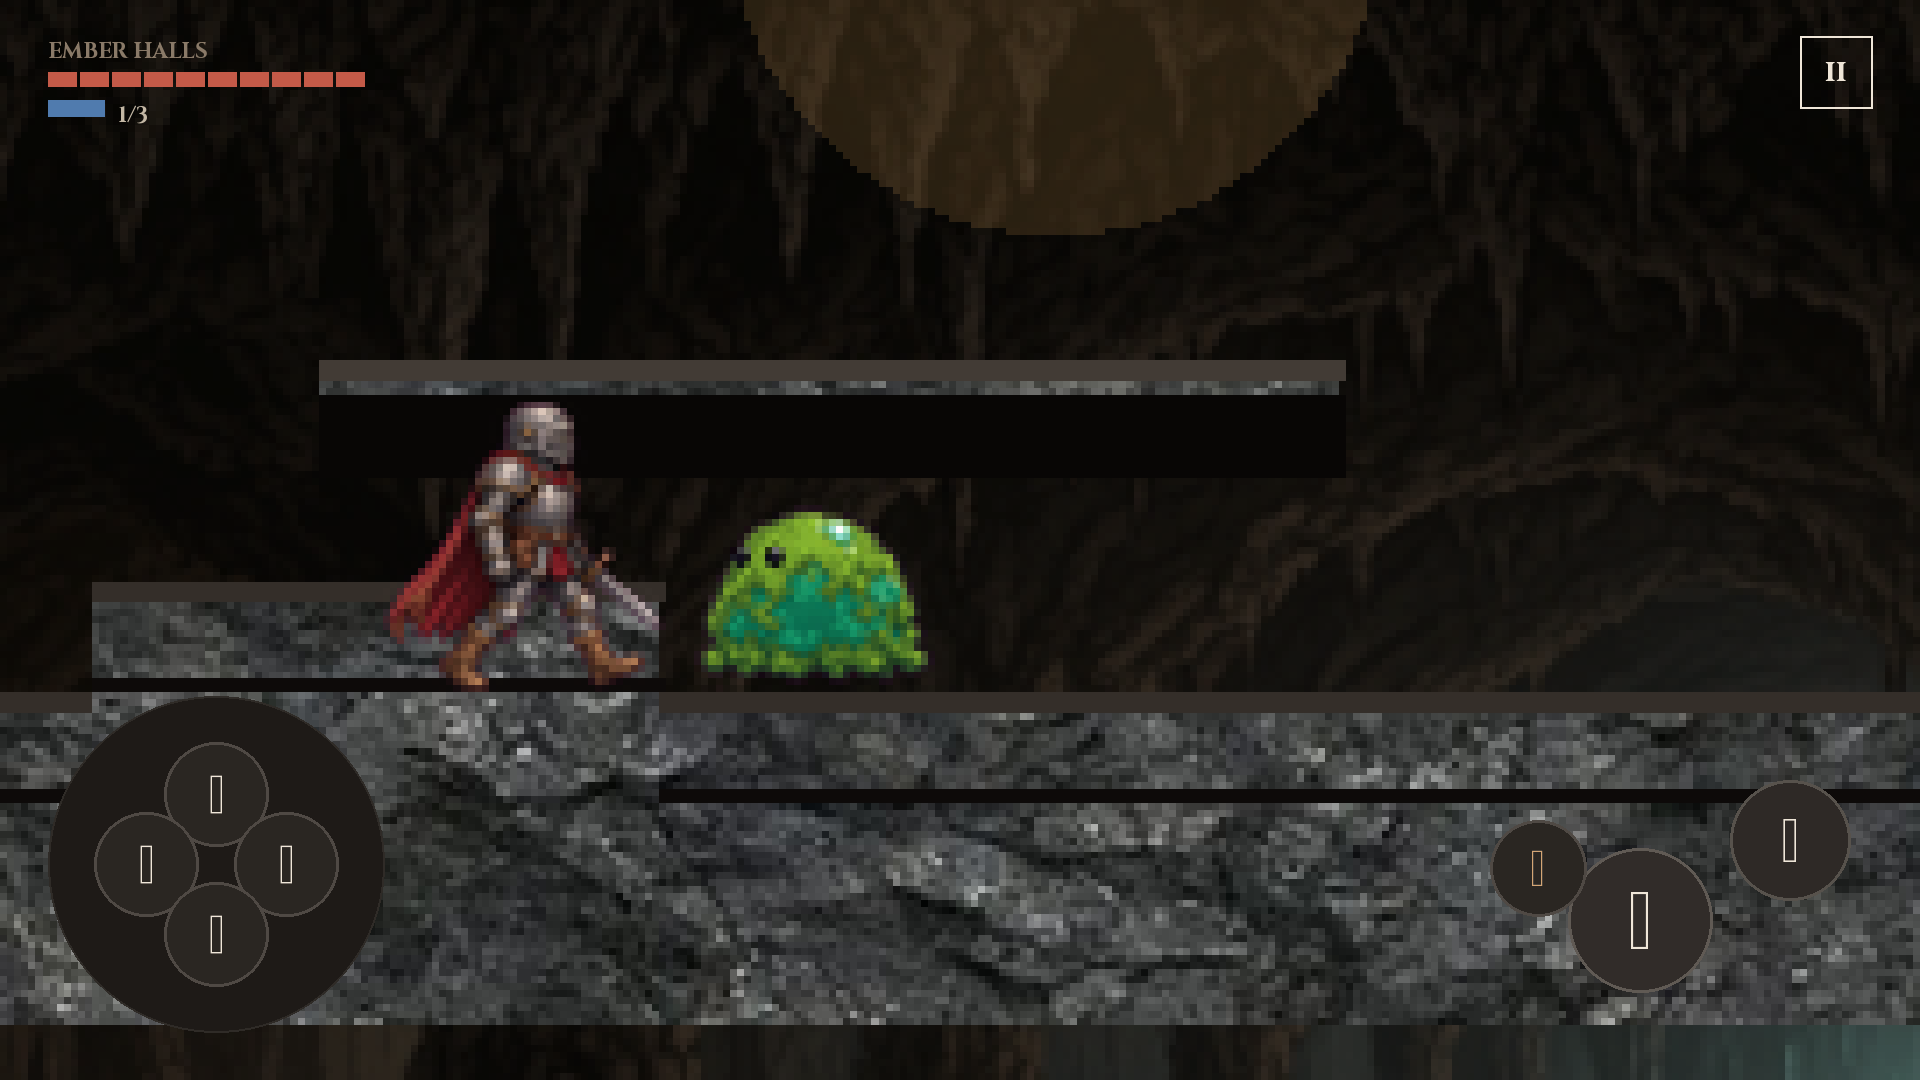
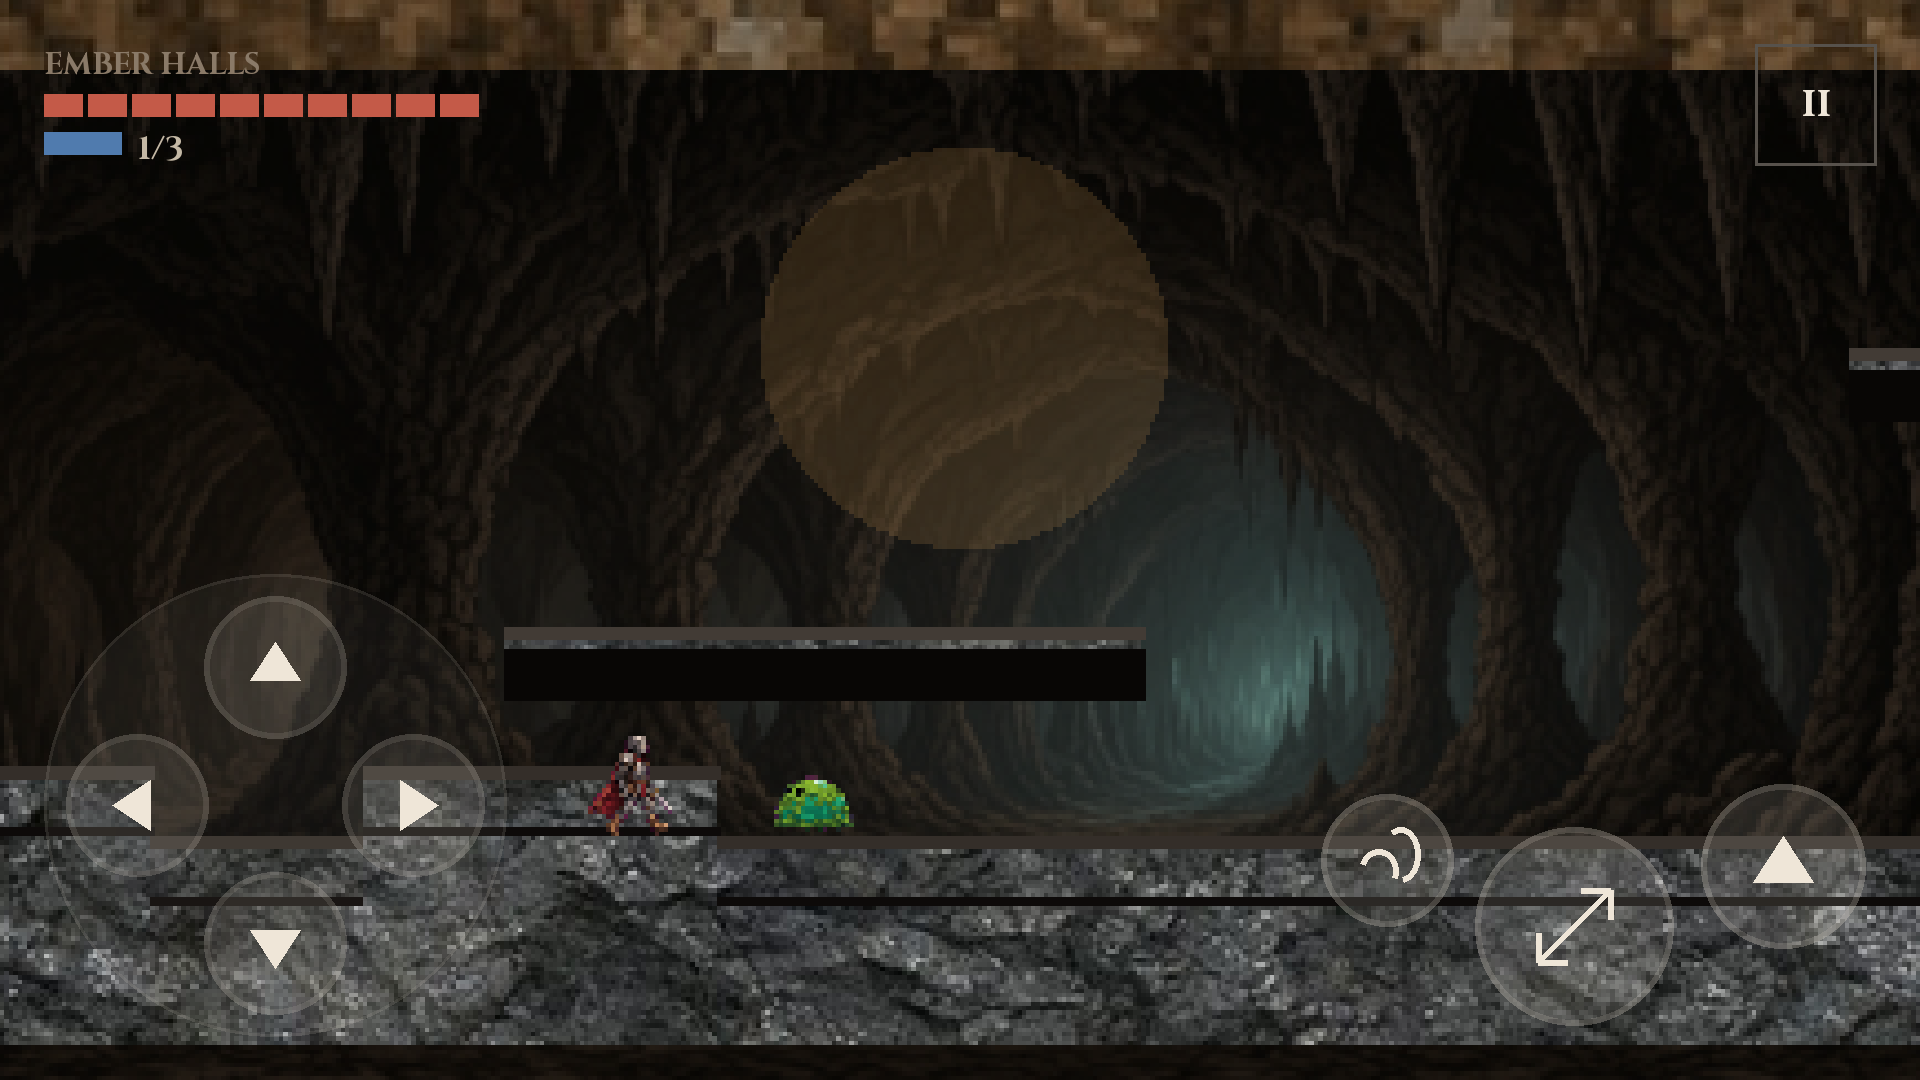
Reshoot Play screenshots at in-game camera with real D-pad arrows

diff --git a/store/make_screenshots.py b/store/make_screenshots.py
@@ -17,9 +17,14 @@ RES = os.path.join(ROOT, "app", "src", "main", "res")
 W, H = 1920, 1080  # 16:9 phone, landscape — how the game actually runs
 TILE = 16
 T_EMPTY, T_SOLID, T_ONEWAY = 0, 1, 2
-VIEW_H = 148.0
+VIEW_H = 240.0
 SCALE = H / VIEW_H
 VIEW_W = W / SCALE
+DENSITY = 2.75  # ~xxhdpi on a 1080p phone in landscape
+
+
+def dp(n: float) -> int:
+    return int(round(n * DENSITY))
 
 FG = (239, 230, 216, 255)
 MUTED = (196, 184, 165, 255)
@@ -56,11 +61,6 @@ def sheet_cell(img: Image.Image, frame: int) -> Image.Image:
     cw, ch = img.width // cols, img.height // rows
     cc, rr = i % cols, i // cols
     cell = img.crop((cc * cw, rr * ch, cc * cw + cw, rr * ch + ch))
-    bbox = cell.getbbox()
-    if bbox:
-        pad = 6
-        x0, y0, x1, y1 = bbox
-        cell = cell.crop((max(0, x0 - pad), max(0, y0 - pad), min(cell.width, x1 + pad), min(cell.height, y1 + pad)))
     return cell
 
 
@@ -68,8 +68,8 @@ def blit_sheet(world: Image.Image, img: Image.Image, frame: int, x: float, y: fl
     cell = sheet_cell(img, frame)
     if flip:
         cell = cell.transpose(Image.Transpose.FLIP_LEFT_RIGHT)
-    piece = cell.resize((max(1, int(dw)), max(1, int(dh))), Image.Resampling.LANCZOS)
-    px, py = int(x), int(y)
+    piece = cell.resize((max(1, int(dw)), max(1, int(dh))), Image.Resampling.NEAREST)
+    px, py = int(round(x)), int(round(y))
     if px < 0 or py < 0:
         return
     world.alpha_composite(piece, (px, py))
@@ -290,7 +290,7 @@ def render_world(a: A, lv: Level, px: float, py: float, extras: dict) -> Image.I
     for kind, c, floor in lv.pickups:
         ix, iy = c * TILE + 4, floor * TILE - 12
         if kind == "coin":
-            blit_sheet(world, a.coin, 1, wx(ix - 4), wy(iy - 4), 18, 18, False)
+            blit_sheet(world, a.coin, 1, wx(ix - 2), wy(iy - 2), 14, 14, False)
         else:
             img = a.heal if kind == "heal" else a.mana
             piece = img.resize((14, 16), Image.Resampling.NEAREST)
@@ -302,14 +302,14 @@ def render_world(a: A, lv: Level, px: float, py: float, extras: dict) -> Image.I
     for kind, c, floor in lv.enemies:
         if kind == "slime":
             ex, ey = c * TILE, floor * TILE - 10
-            blit_sheet(world, a.slime, extras.get("slime_frame", 1), wx(ex + 6 - 18), wy(ey + 10 - 28), 36, 28, True)
+            blit_sheet(world, a.slime, extras.get("slime_frame", 1), wx(ex + 6 - 11), wy(ey + 10 - 18), 22, 18, True)
         elif kind == "bat":
             ex, ey = c * TILE, floor * TILE
-            blit_sheet(world, a.bat, 2, wx(ex + 6 - 18), wy(ey + 5 - 16), 36, 28, True)
+            blit_sheet(world, a.bat, 2, wx(ex + 6 - 11), wy(ey + 5 - 9), 22, 18, True)
         elif kind == "dragon":
             ex, ey = c * TILE - 20, floor * TILE - 88
             bmp = a.dragon_attack if extras.get("dragon_attack") else a.dragon_idle
-            blit_sheet(world, bmp, extras.get("dragon_frame", 1), wx(ex + 35 - 80), wy(ey + 88 - 128), 160, 128, True)
+            blit_sheet(world, bmp, extras.get("dragon_frame", 1), wx(ex + 35 - 87.5), wy(ey + 88 - 140), 175, 140, True)
             if extras.get("dragon_hp") is not None:
                 bar, hp, maxhp = 45, extras["dragon_hp"], 10
                 hx, hy = wx(ex + 35 - bar / 2), wy(ey + 88 - 140 - 6)
@@ -319,12 +319,12 @@ def render_world(a: A, lv: Level, px: float, py: float, extras: dict) -> Image.I
     anim = extras.get("player_anim", "idle")
     fr = extras.get("player_frame", 1)
     bmp = {"idle": a.knight_idle, "run": a.knight_run, "jump": a.knight_jump, "attack": a.knight_attack}[anim]
-    blit_sheet(world, bmp, fr, wx(px + 5 - 22), wy(py + 14 - 44), 44, 46, extras.get("flip", False))
+    blit_sheet(world, bmp, fr, wx(px + 5 - 14), wy(py + 14 - 26), 28, 28, extras.get("flip", False))
     if extras.get("slash"):
-        blit_sheet(world, a.slash, 2, wx(px + 12), wy(py - 8), 36, 30, False)
+        blit_sheet(world, a.slash, 2, wx(px + 10 - 2), wy(py), 22, 18, False)
     if extras.get("fireball"):
         bx, by = extras["fireball"]
-        blit_sheet(world, a.fireball, 1, wx(bx), wy(by), 32, 28, False)
+        blit_sheet(world, a.fireball, 1, wx(bx), wy(by), 18, 16, False)
     if extras.get("floater"):
         d = ImageDraw.Draw(world)
         d.text((wx(extras["floater"][0]), wy(extras["floater"][1])), extras["floater"][2], font=font(10, True), fill=CARVED_GOLD)
@@ -343,42 +343,81 @@ def render_world(a: A, lv: Level, px: float, py: float, extras: dict) -> Image.I
     return screen
 
 
-def oval(draw, box, fill, outline, width=3):
-    draw.ellipse(box, fill=fill, outline=outline, width=width)
+def circle(img: Image.Image, cx: int, cy: int, r: int, fill, outline, stroke: int) -> None:
+    overlay = Image.new("RGBA", img.size, (0, 0, 0, 0))
+    d = ImageDraw.Draw(overlay)
+    d.ellipse([cx - r, cy - r, cx + r, cy + r], fill=fill, outline=outline, width=stroke)
+    img.alpha_composite(overlay)
+
+
+def tri(d, kind: str, cx: int, cy: int, s: int) -> None:
+    c = (239, 230, 216, 255)
+    if kind == "left":
+        d.polygon([(cx - s, cy), (cx + int(s * 0.55), cy - s), (cx + int(s * 0.55), cy + s)], fill=c)
+    elif kind == "right":
+        d.polygon([(cx + s, cy), (cx - int(s * 0.55), cy - s), (cx - int(s * 0.55), cy + s)], fill=c)
+    elif kind == "up":
+        d.polygon([(cx, cy - s), (cx + s, cy + int(s * 0.55)), (cx - s, cy + int(s * 0.55))], fill=c)
+    else:
+        d.polygon([(cx, cy + s), (cx - s, cy - int(s * 0.55)), (cx + s, cy - int(s * 0.55))], fill=c)
 
 
 def draw_controls(img: Image.Image) -> None:
+    """Real overlay from activity_main.xml: triangle arrows, sword, flame."""
+    m = dp(16)
+    pad = dp(168)
+    btn = dp(52)
+    plate_x, plate_y = m, H - m - pad
+    circle(img, plate_x + pad // 2, plate_y + pad // 2, pad // 2, (239, 230, 216, 13), (239, 230, 216, 34), max(2, dp(1)))
+    cx, cy = plate_x + pad // 2, plate_y + pad // 2
+    inset = dp(8) + btn // 2
+    positions = {
+        "up": (cx, plate_y + inset),
+        "left": (plate_x + inset, cy),
+        "right": (plate_x + pad - inset, cy),
+        "down": (cx, plate_y + pad - inset),
+    }
     d = ImageDraw.Draw(img)
-    # left pad
-    oval(d, [48, H - 48 - 336, 48 + 336, H - 48], (239, 230, 216, 14), (239, 230, 216, 34), 2)
-    cx, cy, r = 48 + 168, H - 48 - 168, 52
-    for dx, dy in ((0, -70), (-70, 0), (70, 0), (0, 70)):
-        oval(d, [cx + dx - r, cy + dy - r, cx + dx + r, cy + dy + r], (239, 230, 216, 28), (239, 230, 216, 70), 3)
-    f = font(28, True)
-    for ch, dx, dy in (("▲", 0, -70), ("◀", -70, 0), ("▶", 70, 0), ("▼", 0, 70)):
-        d.text((cx + dx, cy + dy), ch, font=f, fill=FG, anchor="mm")
-    # right actions
-    ax, ay = W - 280, H - 160
-    oval(d, [ax - 72, ay - 72, ax + 72, ay + 72], (239, 230, 216, 36), (239, 230, 216, 90), 3)
-    d.text((ax, ay), "⚔", font=font(42, True), fill=FG, anchor="mm")
-    oval(d, [ax + 90, ay - 140, ax + 90 + 120, ay - 20], (239, 230, 216, 32), (239, 230, 216, 80), 3)
-    d.text((ax + 150, ay - 80), "▲", font=font(32, True), fill=FG, anchor="mm")
-    oval(d, [ax - 150, ay - 100, ax - 54, ay - 4], (239, 230, 216, 28), (239, 230, 216, 70), 3)
-    d.text((ax - 102, ay - 52), "✦", font=font(26, True), fill=GOLD, anchor="mm")
+    for kind, (x, y) in positions.items():
+        circle(img, x, y, btn // 2, (239, 230, 216, 26), (239, 230, 216, 51), max(2, dp(2)))
+        tri(d, kind, x, y, dp(9))
+    me, mb = dp(20), dp(20)
+    jump_s, atk_s, spl_s = dp(60), dp(72), dp(48)
+    jump_cx = W - me - jump_s // 2
+    jump_cy = H - mb - dp(28) - jump_s // 2
+    atk_cx = jump_cx - dp(10) - jump_s // 2 - atk_s // 2
+    atk_cy = H - mb - atk_s // 2
+    spl_cx = atk_cx - dp(8) - atk_s // 2 - spl_s // 2
+    spl_cy = H - mb - dp(36) - spl_s // 2
+    circle(img, spl_cx, spl_cy, spl_s // 2, (239, 230, 216, 34), (239, 230, 216, 68), max(2, dp(2)))
+    w = max(3, dp(2))
+    d.arc([spl_cx - dp(10), spl_cy - dp(4), spl_cx + dp(4), spl_cy + dp(12)], start=200, end=20, fill=FG, width=w)
+    d.arc([spl_cx - dp(2), spl_cy - dp(12), spl_cx + dp(12), spl_cy + dp(8)], start=240, end=80, fill=FG, width=w)
+    circle(img, atk_cx, atk_cy, atk_s // 2, (239, 230, 216, 34), (239, 230, 216, 68), max(2, dp(2)))
+    s = dp(13)
+    d.line([(atk_cx - s, atk_cy + s), (atk_cx + s, atk_cy - s)], fill=FG, width=max(3, dp(2)))
+    d.line([(atk_cx + int(s * 0.2), atk_cy - s), (atk_cx + s, atk_cy - s), (atk_cx + s, atk_cy - int(s * 0.2))], fill=FG, width=max(3, dp(2)))
+    d.line([(atk_cx - s, atk_cy + int(s * 0.2)), (atk_cx - s, atk_cy + s), (atk_cx - int(s * 0.2), atk_cy + s)], fill=FG, width=max(3, dp(2)))
+    circle(img, jump_cx, jump_cy, jump_s // 2, (239, 230, 216, 34), (239, 230, 216, 68), max(2, dp(2)))
+    tri(d, "up", jump_cx, jump_cy, dp(11))
 
 
 def draw_hud(img: Image.Image, name: str, hp: int = 10, mana: bool = True, coins: str = "1/3") -> None:
     d = ImageDraw.Draw(img)
-    d.text((48, 36), name.upper(), font=font(22, True), fill=(138, 122, 104, 255))
-    x = 48
+    m = dp(16)
+    d.text((m, m), name.upper(), font=font(dp(11), True), fill=(138, 122, 104, 255))
+    x = m
+    y = m + dp(18)
     for i in range(10):
         col = HP if i < hp else HP_EMPTY
-        d.rectangle([x, 72, x + 28, 86], fill=col)
-        x += 32
-    d.rectangle([48, 100, 48 + 56, 116], fill=(90, 140, 200, 220) if mana else HP_EMPTY)
-    d.text((118, 100), coins, font=font(22, True), fill=MUTED)
-    d.rectangle([W - 120, 36, W - 48, 108], outline=FG, width=2)
-    d.text((W - 84, 72), "II", font=font(28, True), fill=FG, anchor="mm")
+        d.rectangle([x, y, x + dp(14), y + dp(8)], fill=col)
+        x += dp(16)
+    y2 = y + dp(14)
+    d.rectangle([m, y2, m + dp(28), y2 + dp(8)], fill=(90, 140, 200, 220) if mana else HP_EMPTY)
+    d.text((m + dp(34), y2 - dp(2)), coins, font=font(dp(12), True), fill=MUTED)
+    ps = dp(44)
+    d.rectangle([W - m - ps, m, W - m, m + ps], outline=(239, 230, 216, 80), width=max(2, dp(1)))
+    d.text((W - m - ps // 2, m + ps // 2), "II", font=font(dp(14), True), fill=FG, anchor="mm")
 
 
 def cover_menu(a: A) -> Image.Image:
